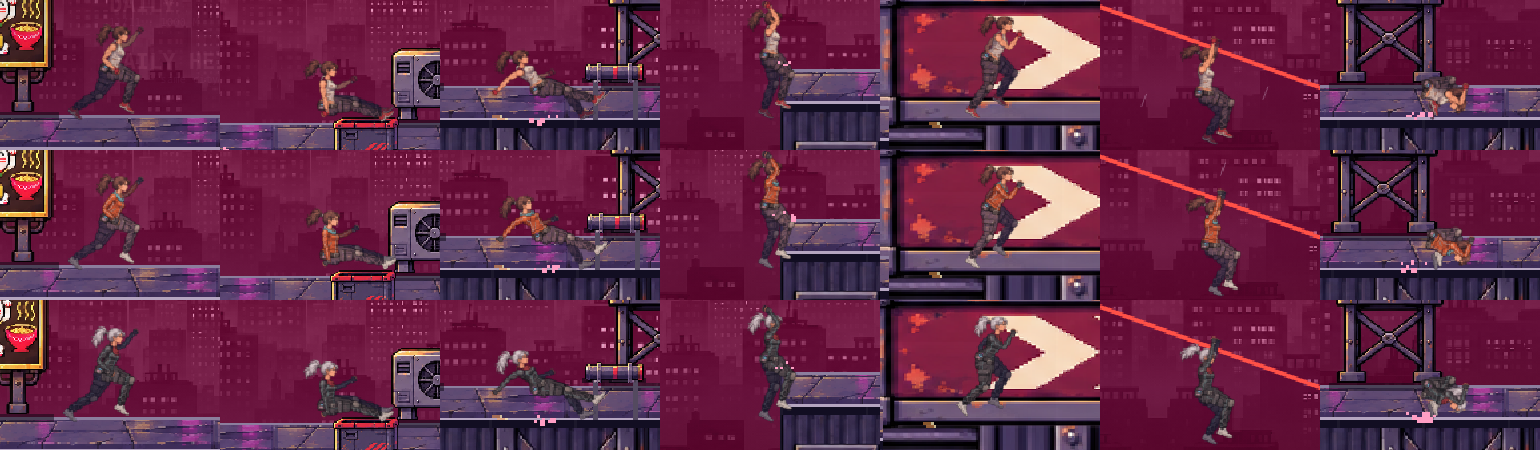
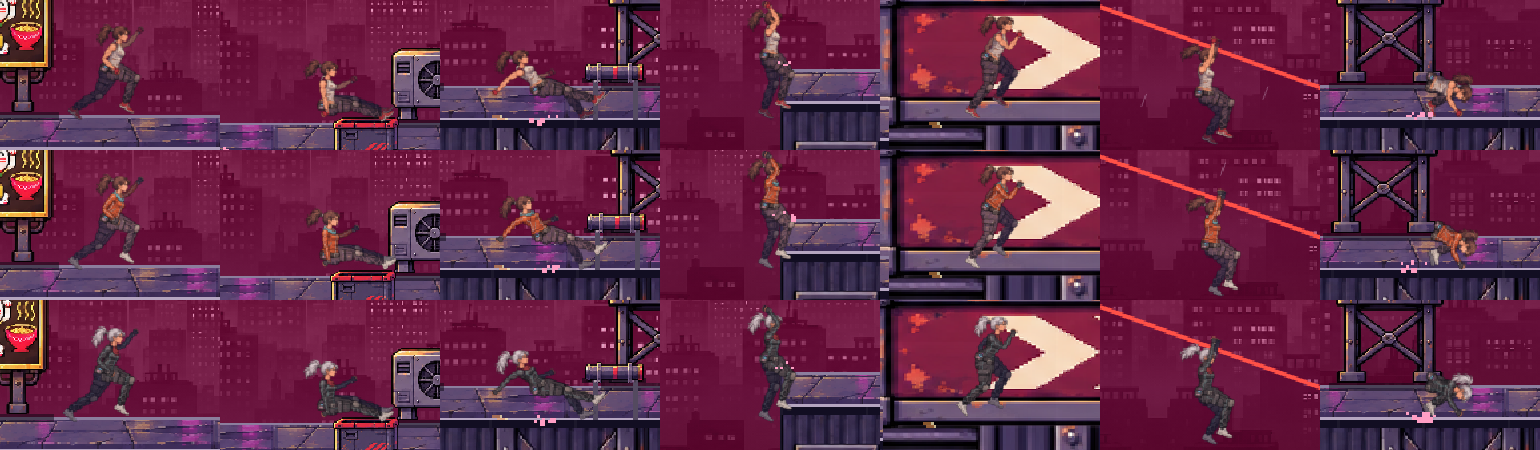
Key the roll as one motion: crouch, tuck over, come up running
The roll was a single tucked pose snapped to from the landing and spun with
an eased turn, then snapped back upright. It is now a keyed clip that lands
in a deep crouch, tucks with the arms wrapped in, turns once at a steady
rate and rises already leaning into the run.

Changed region(s): [[0.9039, 0.8089, 0.9662, 0.9333], [0.9039, 0.4978, 0.9662, 0.5911], [0.9039, 0.1556, 0.9662, 0.2489]]

diff --git a/src/pixel/rig/clips.js b/src/pixel/rig/clips.js
@@ -107,9 +107,15 @@ export const CLIPS = {
     [1, { lean: -0.12, chest: -0.04, head: 0.05, nThigh: 1.35, nKnee: 1.75, nFoot: 0.3, fThigh: 1.0, fKnee: 1.6, fFoot: 0.4, nArm: 2.88, nElbow: 0.18, nWrist: 0.1, fArm: 3.02, fElbow: 0.24, fWrist: 0.1 }],
   ], { loop: true, register: 'hands' }),
 
-  // A tight ball. The animator spins it once per roll.
+  // A parkour roll by progress, turning once at the steady rate the body
+  // covers ground: land in a deep crouch reaching for the roof (0), tuck
+  // tight and go over (0.22..0.78), come up onto the feet already leaning
+  // into the run (1). `spin` turns the whole pose about its middle.
   roll: clip([
-    [0, { lean: 1.25, chest: 0.45, head: 1.6, nThigh: 2.2, nKnee: 2.5, nFoot: 0.9, fThigh: 1.95, fKnee: 2.45, fFoot: 1.0, nArm: 1.25, nElbow: 1.9, fArm: 1.0, fElbow: 2.1 }],
+    [0, { spin: 0, lean: 0.7, chest: 0.2, head: 0.55, nThigh: 1.5, nKnee: 2.0, nFoot: 0.2, fThigh: 1.3, fKnee: 1.9, fFoot: 0.3, nArm: 0.7, nElbow: 0.3, fArm: 0.9, fElbow: 0.3 }],
+    [0.22, { spin: TAU * 0.22, lean: 1.0, chest: 0.45, head: 1.55, nThigh: 2.1, nKnee: 2.5, nFoot: 0.6, fThigh: 1.95, fKnee: 2.45, fFoot: 0.7, nArm: 0.25, nElbow: 1.05, nWrist: 0.3, fArm: 0.05, fElbow: 1.25, fWrist: 0.3 }],
+    [0.78, { spin: TAU * 0.78, lean: 1.0, chest: 0.45, head: 1.55, nThigh: 2.1, nKnee: 2.5, nFoot: 0.6, fThigh: 1.95, fKnee: 2.45, fFoot: 0.7, nArm: 0.25, nElbow: 1.05, nWrist: 0.3, fArm: 0.05, fElbow: 1.25, fWrist: 0.3 }],
+    [1, { spin: TAU, lean: 0.55, chest: 0.12, head: 0.3, nThigh: 1.25, nKnee: 1.7, nFoot: 0.25, fThigh: 0.35, fKnee: 1.25, fFoot: 0.55, nArm: -0.3, nElbow: 1.2, fArm: 0.8, fElbow: 1.2 }],
   ], { register: 'none' }),
 
   // A trip: pitch forward, arms out, catch it, run again.
@@ -216,10 +222,8 @@ export function sampleState(name, p, ctx, out = {}) {
     case 'stumble': return registered('stumble', t / PHYS.STUMBLE_TIME, out)
     case 'dead': return registered('dead', t / 0.35, out)
     case 'roll': {
-      sample(CLIPS.roll, 0, out)
-      // Exactly one turn per roll, quick in the middle, eased at both ends.
       // The ball stays on the roof whichever way up it is.
-      out.spin = TAU * ease(t / PHYS.ROLL_TIME)
+      sample(CLIPS.roll, t / PHYS.ROLL_TIME, out)
       return Object.assign(out, ground(out))
     }
   }

diff --git a/docs/runner-rig.md b/docs/runner-rig.md
@@ -33,7 +33,8 @@ when solved, so no blend can bend a joint backwards.
 Catmull-Rom spline, so motion carries its speed through each key instead of
 stopping on it. Clips are timed by what the simulation knows: vault and
 mantle by kinematic progress, air poses by vertical speed, roll by its
-duration (exactly one turn about the body's centre, kept on the roof), climb
+duration (crouch, tuck and come up running, turning once at a steady rate
+about the body's centre and kept on the roof), climb
 and zip as loops. The run is not keyed. It converts the existing gait's
 planted-foot IK into joint angles, so footsteps, sounds and the visible
 contact stay in lockstep.
